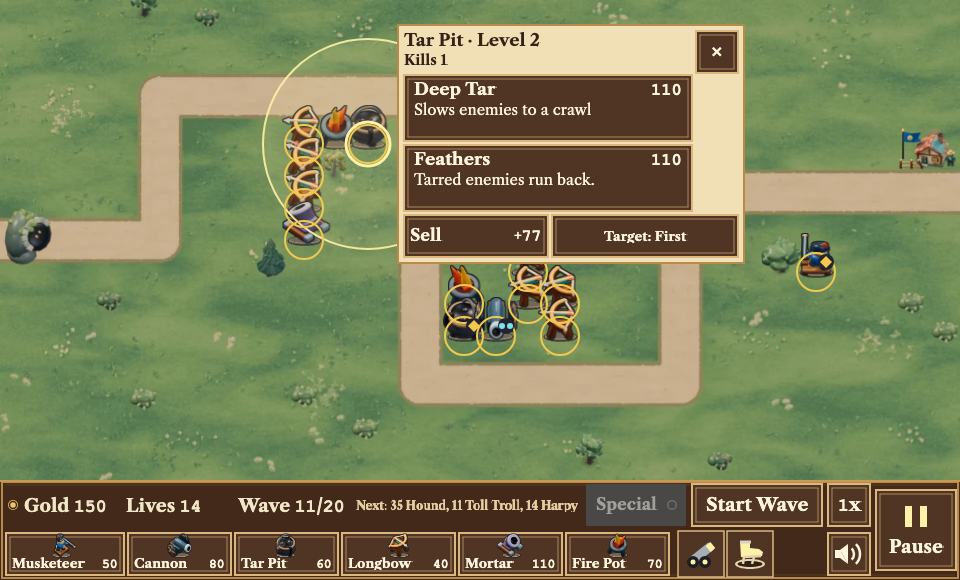
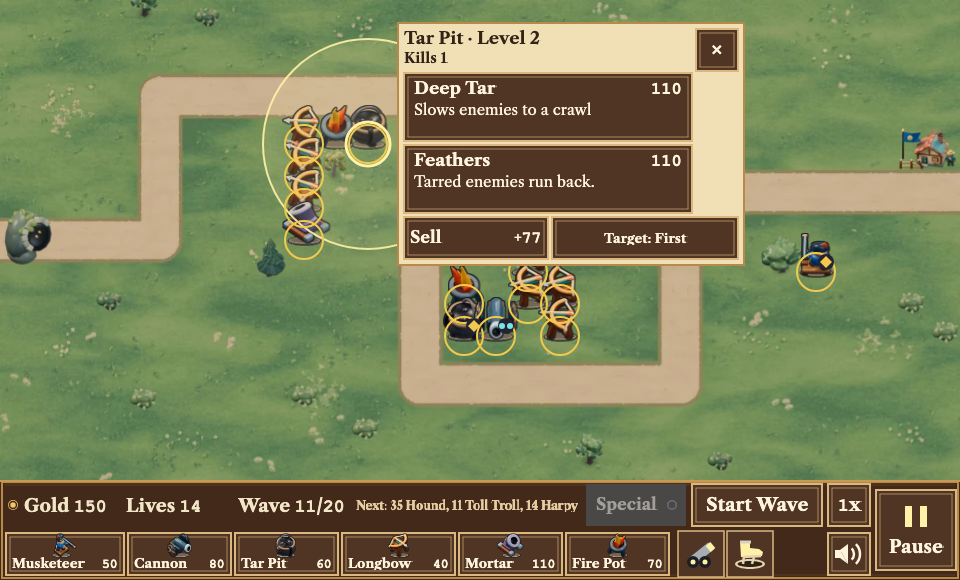
Give upgrade path descriptions two CSS pixels below their titles

Changed region(s): [[0.4062, 0.2483, 0.7812, 0.4655], [0.4062, 0.031, 0.7812, 0.1862]]

diff --git a/src/game/ui/towerPanel.ts b/src/game/ui/towerPanel.ts
@@ -42,6 +42,7 @@ export class TowerPanel {
   private readonly sell: Button;
   private readonly target: Button;
   private readonly closeButton: Button;
+  private readonly pathTitleY: number;
   private readonly pathButtons: Record<UpgradePath, Button>;
   private readonly allButtons: Button[];
   private readonly titleText: Phaser.GameObjects.Text;
@@ -67,10 +68,11 @@ export class TowerPanel {
     this.sell = new Button(scene, rect, PANEL_TEXT.sell, handlers.onSell, { fontSize: f(16), right: '', labelInset: 6 });
     this.target = new Button(scene, rect, targetingButtonText('first'), () => handlers.onTarget(nextMode(this.mode)), { fontSize: f(13) });
     this.closeButton = new Button(scene, rect, '×', handlers.onClose, { fontSize: portrait ? '30px' : '24px' });
+    this.pathTitleY = portrait ? 20 : 15;
     const pathButton = (path: UpgradePath) => new Button(scene, rect, '', () => handlers.onUpgrade(path), {
       right: '',
       fontSize: portrait ? '22px' : '17px',
-      labelY: portrait ? 20 : 14,
+      labelY: this.pathTitleY,
       sound: null,
     });
     this.pathButtons = { A: pathButton('A'), B: pathButton('B') };
@@ -83,9 +85,9 @@ export class TowerPanel {
     this.titleText = caption(portrait ? '22px' : '17px', ink, 'bold');
     this.killsText = caption(f(14), ink, 'bold');
     const pathCaption = () => ({
-      description: caption(portrait ? '20px' : '15px', TEXT.button).setWordWrapCallback((line, label) =>
+      description: caption(portrait ? '20px' : '15px', TEXT.button).setOrigin(0).setWordWrapCallback((line, label) =>
         label.basicWordWrap(line.replace('. ', '.\n'), label.context, label.style.wordWrapWidth ?? Infinity)),
-      reason: caption(portrait ? '20px' : '14px', TEXT.buttonDisabled),
+      reason: caption(portrait ? '20px' : '14px', TEXT.buttonDisabled).setOrigin(0),
     });
     this.pathText = { A: pathCaption(), B: pathCaption() };
   }
@@ -153,15 +155,19 @@ export class TowerPanel {
       : 0;
     const { close, rowHeight, pathHeight, header, width, height: baseHeight, buttonWidth } =
       towerPanelSize(this.layout, level, rows.length, paths.length, scale);
-    // Long path descriptions can use a second line at the full caption size.
-    const lineExtras = { A: 0, B: 0 };
+    // Both headings use the same type. Measure it before placing the wrapped captions.
+    const captionGap = 2 * this.scene.scale.displayScale.y;
+    const titleHeight = this.pathButtons.A.labelObjects[0].height;
+    const descriptionTop = Math.ceil(this.pathTitleY + titleHeight / 2 + captionGap);
+    const extraHeight = { A: 0, B: 0 };
     for (const choice of paths) {
-      const { description } = this.pathText[choice.path];
+      const { description, reason } = this.pathText[choice.path];
       if (description.style.wordWrapWidth !== buttonWidth - 20) description.setWordWrapWidth(buttonWidth - 20);
       if (description.text !== choice.description) description.setText(choice.description);
-      lineExtras[choice.path] = description.height - description.getTextMetrics().fontSize;
+      const contentHeight = descriptionTop + description.height + reason.getTextMetrics().fontSize + 2 * captionGap;
+      extraHeight[choice.path] = Math.max(0, Math.ceil(contentHeight) - pathHeight);
     }
-    const height = baseHeight + lineExtras.A + lineExtras.B;
+    const height = baseHeight + extraHeight.A + extraHeight.B;
     if (this.placed?.width !== width || this.placed.height !== height) {
       const location = placeBeside(this.layout.cellCenter(this.at), width, height, state.map, this.layout);
       this.placed = { ...location, width, height };
@@ -185,7 +191,7 @@ export class TowerPanel {
     const split = level > 1 ? Math.round(innerWidth * 0.43) : 0;
     let top = y + STACK_PAD + header;
     for (const { key, button, path } of rows) {
-      const h = path ? pathHeight + lineExtras[path.path] : rowHeight;
+      const h = path ? pathHeight + extraHeight[path.path] : rowHeight;
       const isSell = split > 0 && key === 'sell';
       const isTarget = split > 0 && key === 'target';
       button.setSize(isSell ? split : isTarget ? innerWidth - split - STACK_GAP : buttonWidth, h);
@@ -196,8 +202,8 @@ export class TowerPanel {
         const color = button.isEnabled ? TEXT.button : TEXT.buttonDisabled;
         if (description.style.color !== color) description.setColor(color);
         if (reason.text !== hint) reason.setText(hint);
-        description.setPosition(left + 10, top + (portrait ? 46 : 35) + lineExtras[path.path] / 2);
-        reason.setPosition(left + 10, top + (portrait ? 73 : 54) + lineExtras[path.path]);
+        description.setPosition(left + 10, top + descriptionTop);
+        reason.setPosition(left + 10, description.y + description.height + captionGap);
       }
       if (!isSell) top += h + STACK_GAP;
     }

diff --git a/e2e/upgradeChoice.ts b/e2e/upgradeChoice.ts
@@ -3,6 +3,7 @@ import type { UiState } from '../src/game/GameScene';
 import type { TarpitTestApi } from '../src/game/testGlobal';
 import type { TowerType } from '../src/sim/types';
 import { api, mapPress, openCampaign, press } from './campaign';
+import { useTallFontMetrics, useWideFontMetrics } from './campaignFont';
 import { cellPage, fingerFor, touchDrag } from './phone';
 
 export const choices = [
@@ -64,8 +65,9 @@ async function expectCardLayout(page: Page, choices: UiState['pathChoices']) {
           box.centerY >= rect.y && box.centerY <= rect.y + rect.height;
       }).map((o) => {
         const b = o.getBounds();
-        return { text: o.text, fits: b.left >= rect.x && b.right <= rect.x + rect.width &&
-          b.top >= rect.y && b.bottom <= rect.y + rect.height };
+        const fits = b.left >= rect.x && b.right <= rect.x + rect.width &&
+          b.top >= rect.y && b.bottom <= rect.y + rect.height;
+        return { text: o.text, fits, top: t.canvasToPage(0, b.top).y, bottom: t.canvasToPage(0, b.bottom).y };
       });
       return { width: rect.width * scale, height: rect.height * scale, labels, choice: choices[index] };
     }) };
@@ -78,6 +80,14 @@ async function expectCardLayout(page: Page, choices: UiState['pathChoices']) {
     const expected = [name, String(price), description];
     if (disabledReason) expected.push(disabledReason);
     expect(labels.map((label) => label.text)).toEqual(expect.arrayContaining(expected));
+    const title = labels.find(label => label.text === name)!;
+    const caption = labels.find(label => label.text === description)!;
+    const gap = caption.top - title.bottom;
+    expect(gap, name + ' title to description (CSS px)').toBeGreaterThanOrEqual(2);
+    if (disabledReason) {
+      const reason = labels.find(label => label.text === disabledReason)!;
+      expect(reason.top, name + ' affordability message').toBeGreaterThanOrEqual(caption.bottom);
+    }
     for (const label of labels) expect(label.fits, label.text).toBe(true);
   }
   for (const [index, [name, rect]] of panel.entries()) {
@@ -114,7 +124,33 @@ const markPixels = (page: Page) => page.evaluate(({ col, row }) => {
   return { gold: gold * scale ** 2, cyan: cyan * scale ** 2 };
 }, cell);
 
+export function pathCardSpacingChecks(touch: boolean) {
+  for (const mode of ['normal', 'fixed Caslon', 'fixed fallback', 'wide']) {
+    test(`path card spacing with ${mode} text`, async ({ page }) => {
+      if (mode.startsWith('fixed')) await useTallFontMetrics(page, mode === 'fixed fallback');
+      if (mode === 'wide') await useWideFontMetrics(page, process.platform === 'darwin' ? 1.09 : 1.06);
+      await openCampaign(page, touch);
+      for (const [type, a, b] of choices) {
+        const built = await page.evaluate(({ col, row, type }) => {
+          const t = window.__tarpit as TarpitTestApi;
+          t.state().gold = 1000;
+          const upgraded = t.buildAt(col, row, type).ok && t.upgradeAt(col, row).ok;
+          t.state().gold = 0;
+          return upgraded;
+        }, { ...cell, type });
+        expect(built, type).toBe(true);
+        await mapPress(page, cell.col, cell.row, touch);
+        const options = await api(page, t => t.ui().pathChoices);
+        expect(options.map(option => option.name)).toEqual([a, b]);
+        await expectCardLayout(page, options);
+        await press(page, 'panel:sell', touch);
+      }
+    });
+  }
+}
+
 export function upgradeChoiceChecks(touch: boolean) {
+  pathCardSpacingChecks(touch);
   for (const [type, a, b] of choices) {
     test(`${type}: both paths can be bought once, differ on the board, and undo restores level 2`, async ({ page }) => {
       await upgradedTower(page, touch, type);

diff --git a/e2e/upgrade-choice-phone.spec.ts b/e2e/upgrade-choice-phone.spec.ts
@@ -1,3 +1,9 @@
-import { upgradeChoiceChecks } from './upgradeChoice';
+import { test } from '@playwright/test';
+import { pathCardSpacingChecks, upgradeChoiceChecks } from './upgradeChoice';
 
 upgradeChoiceChecks(true);
+
+test.describe('short phone', () => {
+  test.use({ viewport: { width: 390, height: 664 } });
+  pathCardSpacingChecks(true);
+});

diff --git a/docs/DESIGN.md b/docs/DESIGN.md
@@ -441,7 +441,9 @@ Longbow, Mortar and Fire Pot sell for 59, 98, 77, 49, 133 and 84 gold.
 At level 3 their locked refunds are 119, 196, 154, 98, 266 and 168 gold.
 
 The level-2 panel offers two cards. Each shows the path name, its price
-and the change from the level-2 stats. Both show "Not enough gold" when
+and the change from the level-2 stats. The description starts at least 2 CSS px
+below the path name. The card grows to fit wrapped text and the price stays
+on the title row. Both show "Not enough gold" when
 the tower's owner cannot afford the upgrade. At level 3 the heading shows
 the path name. Undo appears alongside the cards or the final path while
 the latest purchase is refundable. Target and Sell share a row at levels
